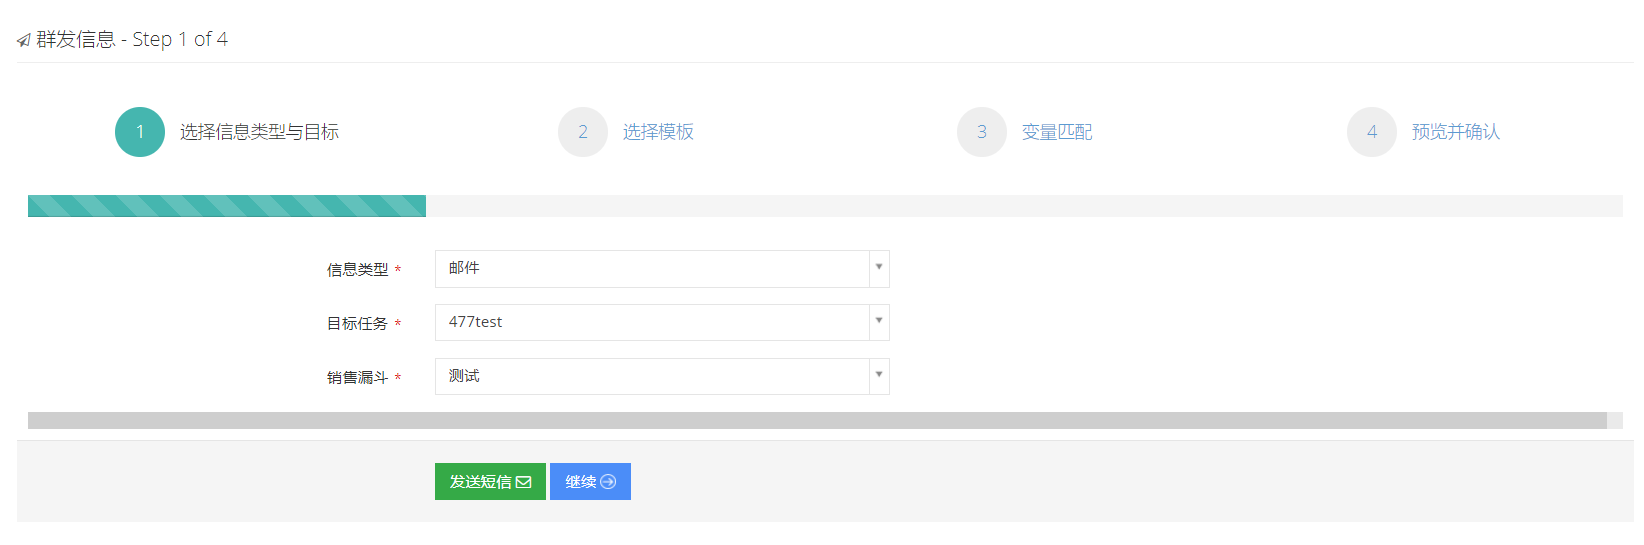
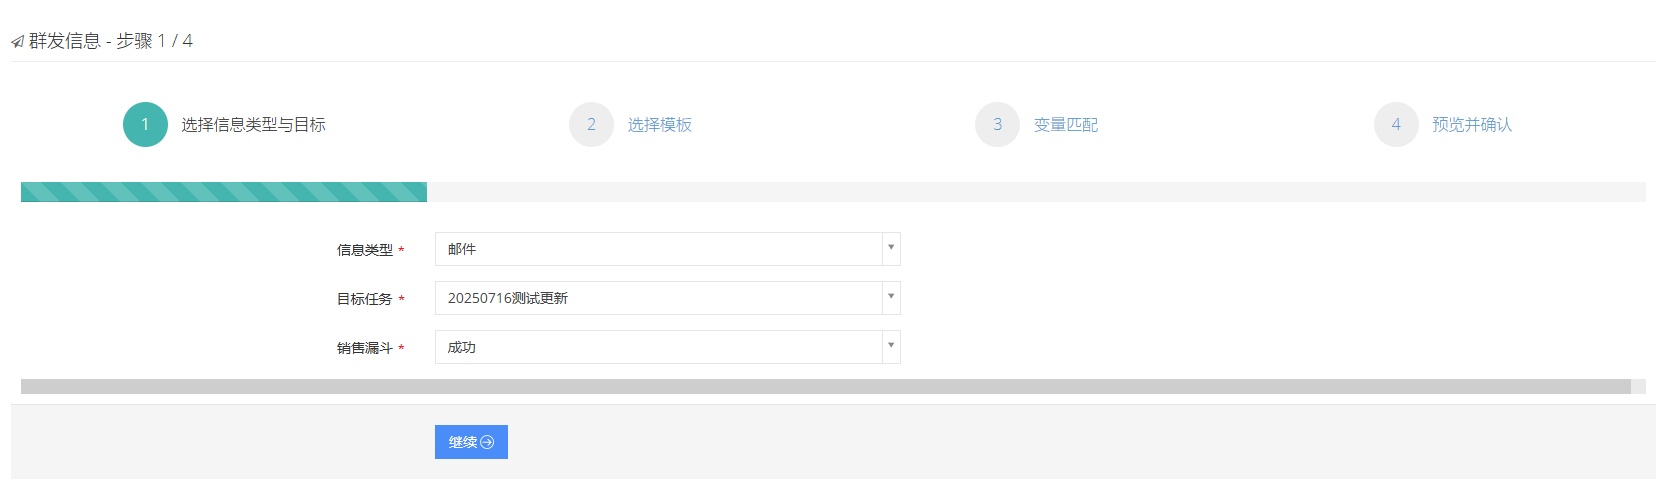
更新3.7文档

diff --git a/docs/source/client_menus.md b/docs/source/client_menus.md
@@ -3226,15 +3226,11 @@
 
 ![alt text](_static/images/client/media/image257.png)
 
--   **信息类型**：用户可以选择群发信息的类型，可以选择邮件、闪信、短信。
+-   **信息类型**：用户可以选择群发信息的类型，可以选择邮件。
 
 -   **目标任务**：选择要进行群发的任务。
 
 -   **销售漏斗**：选择该任务下符合该销售漏斗的客户信息进行群发。
-
-> <span class="mark">在步骤1页面可以选择直接发送短信，点击发送短信填写群发的客户号码，编辑短信内容，但不能选择模板，点击发送即可。</span>
-
-![alt text](_static/images/client/media/image258.png)
 
 ②<span class="mark">步骤2：根据步骤1中的设定客户数据条件后点击【继续】选择模板，进行更加个性化的设置</span>
 
